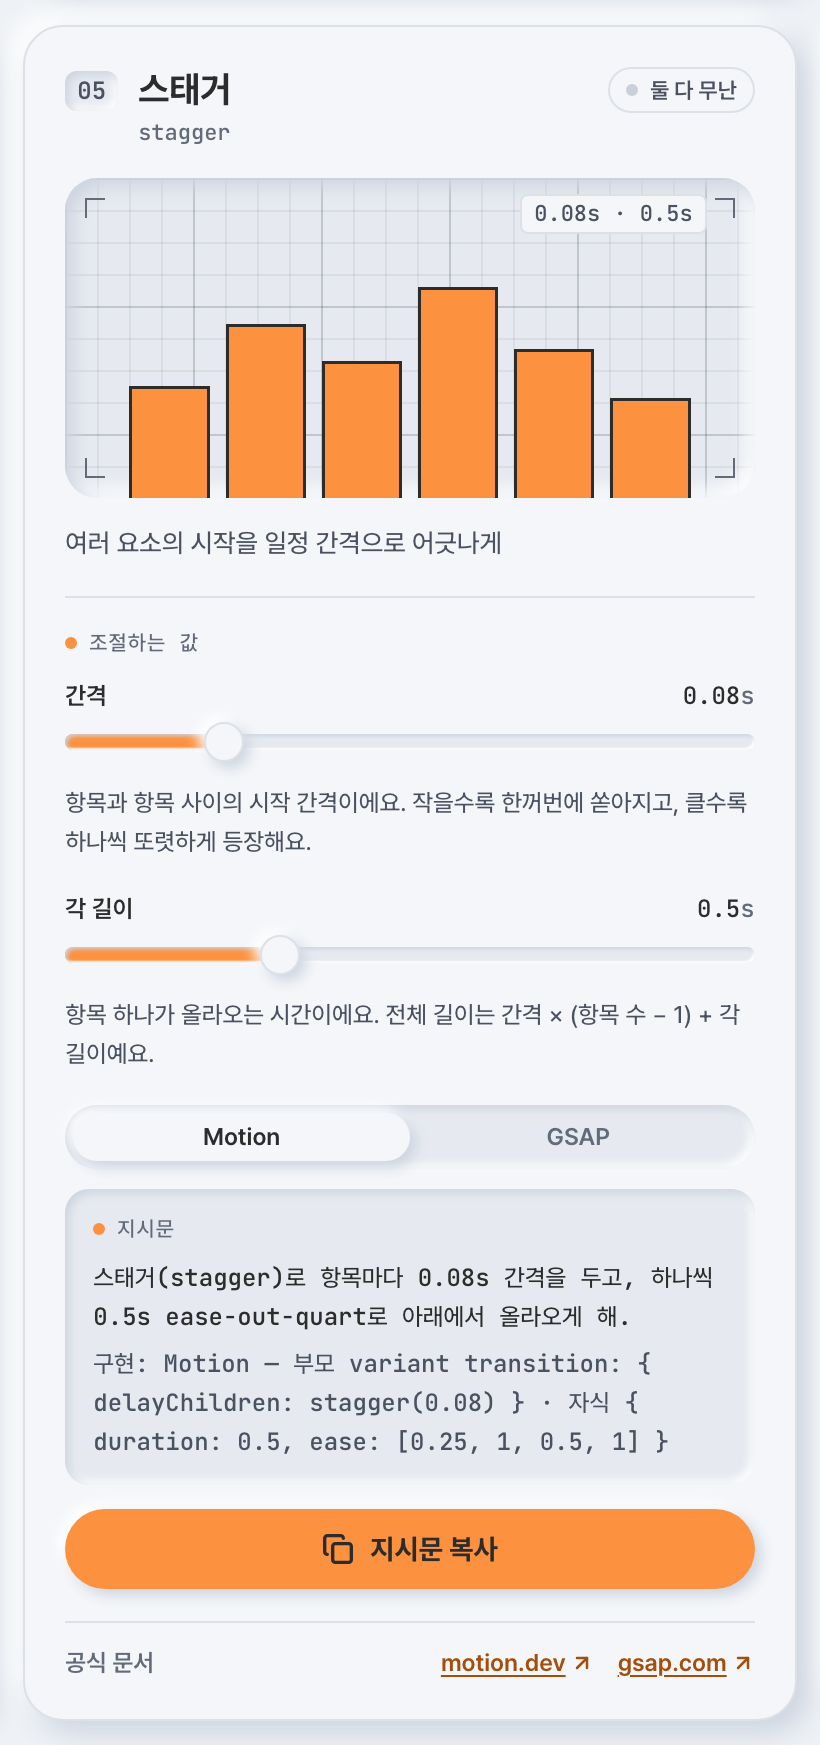
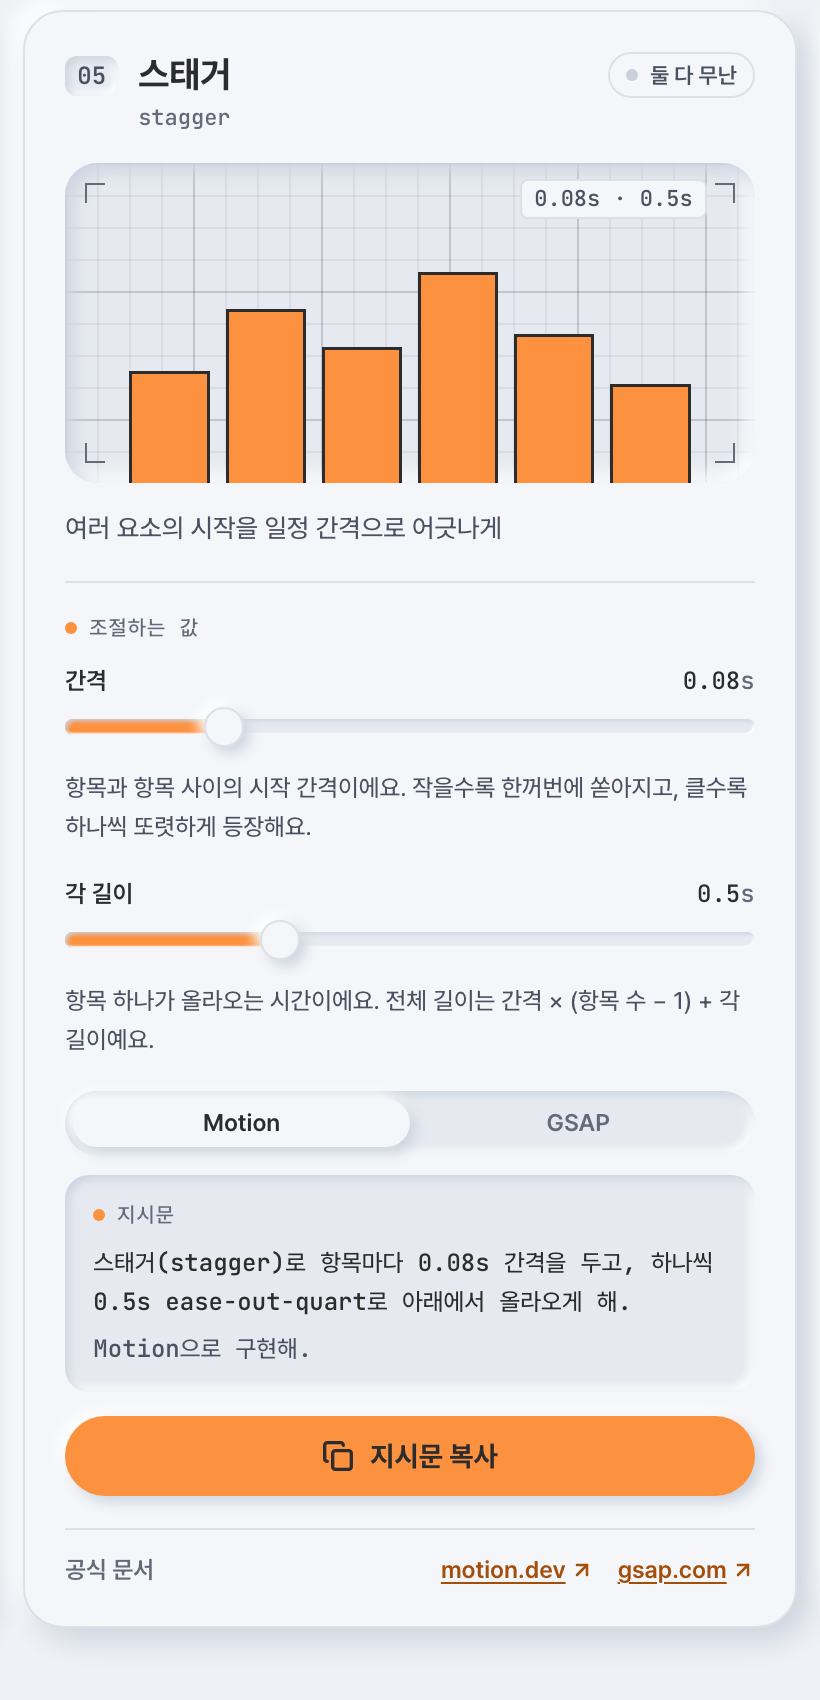
지시문 둘째 줄을 구현 라이브러리 이름만 남기도록 축약
- prompt.ts: buildPrompt 둘째 줄을 "Motion으로 구현해." 처럼 라이브러리 이름 한 문장으로 변경 (조사는 읽는 소리에 맞춤)
- types.ts·meta.ts 28개: 더 쓰지 않는 snippet(라이브러리별 코드 조각) 제거
- scripts/check-prompts.mjs: 둘째 줄이 "~구현해." 로 끝나는지 검사 추가
- Hero.tsx·TechniqueCard.tsx: 3단계 문구와 토글 주석을 라이브러리 이름 기준으로 수정
- README·motion-vocabulary.md·README 스크린샷 갱신

diff --git a/src/techniques/tilt-flip/meta.ts b/src/techniques/tilt-flip/meta.ts
@@ -19,9 +19,5 @@ export default {
     { key: 'angle', label: '최대 기울기', min: 5, max: 35, step: 1, default: 18, unit: '°', effect: '커서를 따라 기울어지는 최대 각도예요. 클수록 입체감이 커지지만 카드 내용을 읽기 어려워져요.' },
     { key: 'perspective', label: 'perspective', min: 200, max: 1200, step: 50, default: 500, unit: 'px', effect: '보는 사람과 카드 사이의 거리예요. 작을수록 원근이 강해 기울기가 과장되고, 클수록 평평해 보여요.' }
   ],
-  prompt: (v) => `3D 틸트 · 플립(3D tilt · flip)으로 카드가 perspective ${v.perspective}px에서 커서 쪽으로 최대 ${v.angle}°까지 기울며 스프링으로 따라오게 해. 클릭하면 rotateY 180°로 뒤집히게 해.`,
-  snippet: {
-    motion: (v) => `style={{ rotateX, rotateY, transformPerspective: ${v.perspective} }} · useTransform(pointer, [-1, 1], [-${v.angle}, ${v.angle}])`,
-    gsap: (v) => `gsap.set(parent, { perspective: ${v.perspective} }) · gsap.to(card, { rotationY: dx * ${v.angle}, rotationX: -dy * ${v.angle} })`
-  }
+  prompt: (v) => `3D 틸트 · 플립(3D tilt · flip)으로 카드가 perspective ${v.perspective}px에서 커서 쪽으로 최대 ${v.angle}°까지 기울며 스프링으로 따라오게 해. 클릭하면 rotateY 180°로 뒤집히게 해.`
 } satisfies TechniqueMeta

diff --git a/src/techniques/enter-exit/meta.ts b/src/techniques/enter-exit/meta.ts
@@ -19,9 +19,5 @@ export default {
     { key: 'enter', label: '진입', min: 0.1, max: 1, step: 0.05, default: 0.4, unit: 's', effect: '나타날 때 걸리는 시간이에요.' },
     { key: 'exit', label: '퇴장', min: 0.1, max: 1, step: 0.05, default: 0.25, unit: 's', effect: '사라질 때 걸리는 시간이에요. 진입보다 짧게 두면 화면이 빨리 비워진 느낌이 나요.' }
   ],
-  prompt: (v) => `진입 · 퇴장(enter · exit) 모션으로 토스트가 아래 24px에서 ${v.enter}s ease-out-quart로 올라오며 나타나게 하고, 사라질 때는 ${v.exit}s ease-in으로 위로 빠지게 해. 퇴장은 진입보다 짧게 해.`,
-  snippet: {
-    motion: (v) => `<AnimatePresence> + initial={{ y: 24, opacity: 0 }} animate={{ y: 0, opacity: 1, transition: { duration: ${v.enter} } }} exit={{ y: -12, opacity: 0, transition: { duration: ${v.exit} } }}`,
-    gsap: (v) => `진입 gsap.from(el, { y: 24, autoAlpha: 0, duration: ${v.enter} }) · 퇴장 gsap.to(el, { y: -12, autoAlpha: 0, duration: ${v.exit}, onComplete: unmount })`
-  }
+  prompt: (v) => `진입 · 퇴장(enter · exit) 모션으로 토스트가 아래 24px에서 ${v.enter}s ease-out-quart로 올라오며 나타나게 하고, 사라질 때는 ${v.exit}s ease-in으로 위로 빠지게 해. 퇴장은 진입보다 짧게 해.`
 } satisfies TechniqueMeta

diff --git a/src/techniques/prompt.ts b/src/techniques/prompt.ts
@@ -9,14 +9,13 @@ export const LIB_LABEL: Record<Lib, string> = { motion: 'Motion', gsap: 'GSAP', 
 export const defaultValues = (technique: Technique): ParamValues =>
   Object.fromEntries((technique.params ?? []).map((param) => [param.key, param.default]))
 
+/** "Motion으로" · "React Native로" 처럼 라이브러리 이름 읽는 소리에 맞춘 조사 */
+const WITH: Record<Lib, string> = { motion: '으로', gsap: '으로', native: '으로', rn: '로' }
+
 /**
  * 카드의 "복사" 버튼이 만드는 지시문.
- * 1줄: 기법 용어를 넣은 명령문 (수치 포함, meta.prompt) / 2줄: 구현 라이브러리와 핵심 코드
+ * 1줄: 기법 용어를 넣은 명령문 (수치 포함, meta.prompt) / 2줄: 어느 라이브러리로 구현할지만.
+ * 세부 API 와 코드는 쓰는 AI 가 정한다
  */
-export const buildPrompt = (technique: Technique, lib: Lib, values: ParamValues) => {
-  const request = technique.prompt(values)
-  const code =
-    lib === 'native' ? technique.native?.[0] : (technique.snippet?.[lib]?.(values) ?? technique[lib]?.[0])
-
-  return [request, `구현: ${LIB_LABEL[lib]} — ${code}`].join('\n')
-}
+export const buildPrompt = (technique: Technique, lib: Lib, values: ParamValues) =>
+  [technique.prompt(values), `${LIB_LABEL[lib]}${WITH[lib]} 구현해.`].join('\n')

diff --git a/src/techniques/image-reveal/meta.ts b/src/techniques/image-reveal/meta.ts
@@ -19,9 +19,5 @@ export default {
     { key: 'scale', label: '시작 배율', min: 1, max: 1.8, step: 0.05, default: 1.3, unit: '×', effect: '안쪽 이미지가 처음에 확대된 정도예요. 클수록 틀이 열리며 줄어드는 움직임이 커지고, 1×면 확대 없이 틀만 열려요.' },
     { key: 'duration', label: '길이', min: 0.4, max: 2, step: 0.05, default: 0.9, unit: 's', effect: '틀이 다 열리는 시간이에요. 안쪽 이미지는 이보다 조금 더 길게 줄어들어요.' }
   ],
-  prompt: (v) => `이미지 리빌(image reveal)로 틀이 아래에서 위로 ${v.duration}s 동안 열리게 하고, 안쪽 이미지는 ${v.scale}배에서 1배로 조금 더 길게 줄어들게 해.`,
-  snippet: {
-    motion: (v) => `틀 clipPath: 'inset(100% 0% 0% 0%)' → 'inset(0% 0% 0% 0%)' (${v.duration}s) · img scale: ${v.scale} → 1 (${(v.duration * 1.45).toFixed(2)}s)`,
-    gsap: (v) => `tl.from(frame, { clipPath: 'inset(100% 0% 0% 0%)', duration: ${v.duration} }).from(img, { scale: ${v.scale}, duration: ${(v.duration * 1.45).toFixed(2)} }, '<')`
-  }
+  prompt: (v) => `이미지 리빌(image reveal)로 틀이 아래에서 위로 ${v.duration}s 동안 열리게 하고, 안쪽 이미지는 ${v.scale}배에서 1배로 조금 더 길게 줄어들게 해.`
 } satisfies TechniqueMeta

diff --git a/src/techniques/magnetic/meta.ts b/src/techniques/magnetic/meta.ts
@@ -21,9 +21,5 @@ export default {
     { key: 'stiffness', label: 'stiffness', min: 50, max: 500, step: 10, default: 220, effect: '따라가고 돌아오는 힘이에요. 클수록 빠르고 바짝 붙어요.' },
     { key: 'damping', label: 'damping', min: 4, max: 40, step: 1, default: 12, effect: '출렁임을 줄이는 힘이에요. 낮으면 제자리로 돌아올 때 흔들려요.' }
   ],
-  prompt: (v) => `마그네틱(magnetic) 효과로 커서가 ${v.range}px 안에 들어오면 버튼이 커서 거리의 ${Math.round(v.pull * 100)}%만큼 끌려오게 해. 따라오고 돌아올 때는 스프링(stiffness ${v.stiffness}, damping ${v.damping})으로 움직이게 해.`,
-  snippet: {
-    motion: (v) => `pointer 오프셋 × ${v.pull} → useMotionValue → useSpring(mv, { stiffness: ${v.stiffness}, damping: ${v.damping} })`,
-    gsap: (v) => `const xTo = gsap.quickTo(el, 'x', { duration: 0.6, ease: 'elastic.out(1, 0.4)' }) · mousemove 에서 xTo(dx * ${v.pull})`
-  }
+  prompt: (v) => `마그네틱(magnetic) 효과로 커서가 ${v.range}px 안에 들어오면 버튼이 커서 거리의 ${Math.round(v.pull * 100)}%만큼 끌려오게 해. 따라오고 돌아올 때는 스프링(stiffness ${v.stiffness}, damping ${v.damping})으로 움직이게 해.`
 } satisfies TechniqueMeta

diff --git a/src/techniques/rubber-band/meta.ts b/src/techniques/rubber-band/meta.ts
@@ -19,9 +19,5 @@ export default {
     { key: 'elastic', label: '따라옴', min: 0.05, max: 1, step: 0.05, default: 0.35, effect: '범위를 넘겨 끌 때 따라오는 비율이에요. 작을수록 강하게 저항하고, 1이면 저항 없이 그대로 따라와요.' },
     { key: 'damping', label: '복귀 damping', min: 5, max: 40, step: 1, default: 14, effect: '놓은 뒤 제자리로 돌아올 때 출렁임을 줄이는 힘이에요. 낮으면 돌아오며 흔들려요.' }
   ],
-  prompt: (v) => `러버밴드(rubber band)로 끌 범위를 넘겨 끌면 거리의 ${Math.round(v.elastic * 100)}%만 따라오며 저항하게 하고, 놓으면 bounce(stiffness 400, damping ${v.damping})로 되돌아오게 해.`,
-  snippet: {
-    motion: (v) => `drag dragConstraints={{ left: 0, right: 0 }} dragElastic={${v.elastic}} dragTransition={{ bounceStiffness: 400, bounceDamping: ${v.damping} }}`,
-    gsap: (v) => `Draggable.create(el, { bounds, edgeResistance: ${(1 - v.elastic).toFixed(2)}, inertia: true }) (근사)`
-  }
+  prompt: (v) => `러버밴드(rubber band)로 끌 범위를 넘겨 끌면 거리의 ${Math.round(v.elastic * 100)}%만 따라오며 저항하게 하고, 놓으면 bounce(stiffness 400, damping ${v.damping})로 되돌아오게 해.`
 } satisfies TechniqueMeta

diff --git a/src/techniques/custom-cursor/meta.ts b/src/techniques/custom-cursor/meta.ts
@@ -20,9 +20,5 @@ export default {
     { key: 'stiffness', label: 'stiffness', min: 50, max: 800, step: 10, default: 300, effect: '원이 커서를 쫓아가는 힘이에요. 클수록 바짝 붙어 따라오고, 작을수록 느슨하게 뒤처져요.' },
     { key: 'damping', label: 'damping', min: 5, max: 50, step: 1, default: 28, effect: '따라붙을 때의 출렁임을 줄이는 힘이에요. 낮으면 커서를 지나쳤다 돌아오고, 높으면 출렁임 없이 멈춰요.' }
   ],
-  prompt: (v) => `커스텀 커서(custom cursor)로 기본 커서 대신 점과 원을 그리고, 원은 스프링(stiffness ${v.stiffness}, damping ${v.damping})으로 한 박자 늦게 따라오게 해. 링크 위에서는 원이 커지게 해.`,
-  snippet: {
-    motion: (v) => `useMotionValue(clientX) → useSpring(mv, { stiffness: ${v.stiffness}, damping: ${v.damping} }) · pointer-events: none`,
-    gsap: () => `gsap.quickTo(ring, 'x', { duration: 0.6, ease: 'power3' }) + mousemove · xPercent: -50`
-  }
+  prompt: (v) => `커스텀 커서(custom cursor)로 기본 커서 대신 점과 원을 그리고, 원은 스프링(stiffness ${v.stiffness}, damping ${v.damping})으로 한 박자 늦게 따라오게 해. 링크 위에서는 원이 커지게 해.`
 } satisfies TechniqueMeta

diff --git a/src/techniques/bottom-sheet/meta.ts b/src/techniques/bottom-sheet/meta.ts
@@ -17,9 +17,5 @@ export default {
     { key: 'damping', label: 'damping', min: 20, max: 120, step: 5, default: 80, effect: '놓은 뒤 출렁임을 잠재우는 힘이에요. 낮을수록 스냅 지점 근처에서 더 흔들리고, 높을수록 튕김 없이 멈춰요.' },
     { key: 'stiffness', label: 'stiffness', min: 100, max: 800, step: 50, default: 500, effect: '시트를 스냅 지점으로 끌어당기는 힘이에요. 클수록 빠르고 팽팽하게 붙어요.' }
   ],
-  prompt: (v) => `바텀시트 스냅(bottom sheet snap)으로 시트가 25% · 50% · 90% 높이에서 멈추게 해. 끌다 놓으면 가장 가까운 높이로 스프링(stiffness ${v.stiffness}, damping ${v.damping})을 써서 넘치지 않게 붙게 해.`,
-  snippet: {
-    rn: (v) =>
-      `<BottomSheet snapPoints={['25%', '50%', '90%']} enableDynamicSizing={false} animationConfigs={useBottomSheetSpringConfigs({ damping: ${v.damping}, stiffness: ${v.stiffness}, overshootClamping: true })} />`
-  }
+  prompt: (v) => `바텀시트 스냅(bottom sheet snap)으로 시트가 25% · 50% · 90% 높이에서 멈추게 해. 끌다 놓으면 가장 가까운 높이로 스프링(stiffness ${v.stiffness}, damping ${v.damping})을 써서 넘치지 않게 붙게 해.`
 } satisfies TechniqueMeta

diff --git a/src/techniques/mask-reveal/meta.ts b/src/techniques/mask-reveal/meta.ts
@@ -19,9 +19,5 @@ export default {
     { key: 'duration', label: '길이', min: 0.4, max: 1.6, step: 0.05, default: 0.9, unit: 's', effect: '줄 하나가 틀 아래에서 올라오는 시간이에요.' },
     { key: 'gap', label: '줄 간격', min: 0, max: 0.4, step: 0.02, default: 0.12, unit: 's', effect: '줄과 줄 사이의 시작 간격이에요. 0이면 모든 줄이 한꺼번에, 클수록 한 줄씩 차례로 올라와요.' }
   ],
-  prompt: (v) => `마스크 리빌(mask reveal)로 overflow: hidden 틀 아래 110%에서 줄마다 ${v.gap}s 스태거를 두고 ${v.duration}s ease-out-quart로 올라오게 해. 투명도는 바꾸지 않게 해.`,
-  snippet: {
-    motion: (v) => `overflow-hidden 틀 + 줄 y: '110%' → 0, { duration: ${v.duration}, ease: [0.25, 1, 0.5, 1], delay: stagger(${v.gap}) }`,
-    gsap: (v) => `SplitText.create(el, { type: 'lines', mask: 'lines', autoSplit: true, onSplit: (s) => gsap.from(s.lines, { yPercent: 110, duration: ${v.duration}, ease: 'power3.out', stagger: ${v.gap} }) })`
-  }
+  prompt: (v) => `마스크 리빌(mask reveal)로 overflow: hidden 틀 아래 110%에서 줄마다 ${v.gap}s 스태거를 두고 ${v.duration}s ease-out-quart로 올라오게 해. 투명도는 바꾸지 않게 해.`
 } satisfies TechniqueMeta

diff --git a/src/techniques/inertia/meta.ts b/src/techniques/inertia/meta.ts
@@ -19,9 +19,5 @@ export default {
     { key: 'power', label: 'power', min: 0.2, max: 1.5, step: 0.05, default: 0.8, effect: '던진 속도를 미끄러지는 거리로 바꾸는 비율이에요. 클수록 같은 세기로 던져도 더 멀리 가요.' },
     { key: 'timeConstant', label: 'timeConstant', min: 100, max: 900, step: 25, default: 350, unit: 'ms', effect: '감속이 이어지는 시간이에요. 클수록 천천히 멈추며 오래 미끄러지고, 작을수록 금방 멈춰요.' }
   ],
-  prompt: (v) => `관성(inertia)으로 던진 속도를 이어받아 미끄러지다 감속해 멈추게 하고, 값은 power ${v.power}, timeConstant ${v.timeConstant}ms로 해. 벽에 닿으면 튕겨 돌아오게 해.`,
-  snippet: {
-    motion: (v) => `drag dragTransition={{ power: ${v.power}, timeConstant: ${v.timeConstant} }}`,
-    gsap: () => `Draggable.create(el, { inertia: true, bounds, throwResistance: 1000 }) · 감속 방식이 달라 power · timeConstant 와 1:1 대응 안 됨 → 눈으로 맞춤`
-  }
+  prompt: (v) => `관성(inertia)으로 던진 속도를 이어받아 미끄러지다 감속해 멈추게 하고, 값은 power ${v.power}, timeConstant ${v.timeConstant}ms로 해. 벽에 닿으면 튕겨 돌아오게 해.`
 } satisfies TechniqueMeta

diff --git a/src/techniques/micro-interaction/meta.ts b/src/techniques/micro-interaction/meta.ts
@@ -19,9 +19,5 @@ export default {
     { key: 'stiffness', label: 'stiffness', min: 100, max: 900, step: 10, default: 500, effect: '토글 손잡이를 반대편으로 보내는 힘이에요. 클수록 짧고 단단하게 딸깍 움직여요.' },
     { key: 'damping', label: 'damping', min: 5, max: 50, step: 1, default: 30, effect: '손잡이가 멈출 때 흔들림을 줄이는 힘이에요. 낮으면 끝에서 살짝 튕겨요.' }
   ],
-  prompt: (v) => `마이크로 인터랙션(micro-interaction)으로 토글 손잡이가 스프링(stiffness ${v.stiffness}, damping ${v.damping})으로 짧고 단단하게 이동하게 하고, 하트는 누르면 1.25배로 한 번 튀게 해.`,
-  snippet: {
-    motion: (v) => `animate={{ x: on ? 28 : 0 }} transition={{ type: 'spring', stiffness: ${v.stiffness}, damping: ${v.damping} }}`,
-    gsap: () => `onClick → gsap.timeline().to(knob, { x: 28, duration: 0.25, ease: 'back.out(2)' })`
-  }
+  prompt: (v) => `마이크로 인터랙션(micro-interaction)으로 토글 손잡이가 스프링(stiffness ${v.stiffness}, damping ${v.damping})으로 짧고 단단하게 이동하게 하고, 하트는 누르면 1.25배로 한 번 튀게 해.`
 } satisfies TechniqueMeta

diff --git a/src/techniques/interruptible/meta.ts b/src/techniques/interruptible/meta.ts
@@ -16,8 +16,5 @@ export default {
     { key: 'stiffness', label: 'stiffness', min: 100, max: 600, step: 10, default: 250, effect: '목표로 향하는 힘이에요. 클수록 도중에 방향을 바꿔도 빠르게 새 목표로 돌아서요.' },
     { key: 'damping', label: 'damping', min: 10, max: 50, step: 1, default: 22, effect: '출렁임을 줄이는 힘이에요. 낮으면 도착하며 흔들리고, 높으면 부드럽게 멈춰요.' }
   ],
-  prompt: (v) => `인터럽트 가능한 전환(interruptible)으로 전환 도중에 다시 눌러도 멈췄다 처음부터 가지 않게 하고, 지금 위치에서 새 목표로 스프링(stiffness ${v.stiffness}, damping ${v.damping})을 써서 방향을 바꾸게 해.`,
-  snippet: {
-    rn: (v) => `x.value = withSpring(target, { stiffness: ${v.stiffness}, damping: ${v.damping} })  // 진행 중에도 같은 코드로 재호출`
-  }
+  prompt: (v) => `인터럽트 가능한 전환(interruptible)으로 전환 도중에 다시 눌러도 멈췄다 처음부터 가지 않게 하고, 지금 위치에서 새 목표로 스프링(stiffness ${v.stiffness}, damping ${v.damping})을 써서 방향을 바꾸게 해.`
 } satisfies TechniqueMeta
